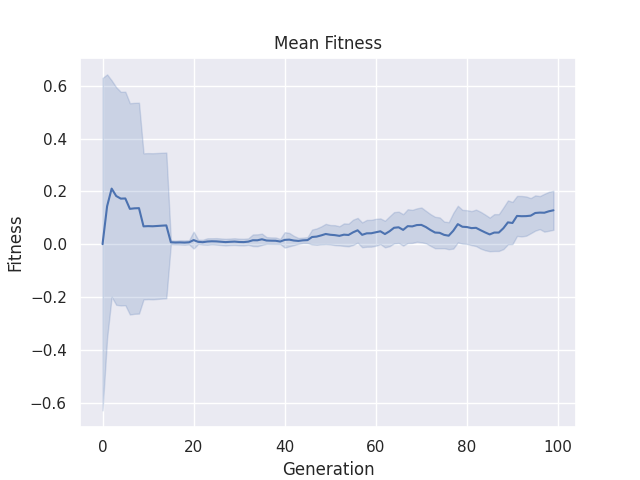
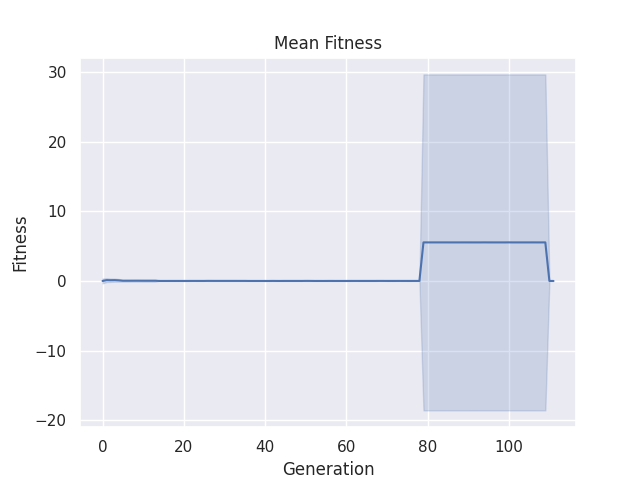
changed z_depth to actual average height

diff --git a/pyrevolve/evolution/population/population.py b/pyrevolve/evolution/population/population.py
@@ -338,13 +338,13 @@ class Population:
             line_fitness_range = (max(self.individuals, key= lambda x: x.phenotype._behavioural_measurements.line_fitness).phenotype._behavioural_measurements.line_fitness
                                 - min(self.individuals, key= lambda x: x.phenotype._behavioural_measurements.line_fitness).phenotype._behavioural_measurements.line_fitness)
        
-            mean_height = np.sum([individual.phenotype._morphological_measurements.z_depth for individual in self.individuals])/len(self.individuals)
-            height_range = (max(self.individuals, key= lambda x: x.phenotype._morphological_measurements.z_depth).phenotype._morphological_measurements.z_depth
-                            - min(self.individuals, key= lambda x: x.phenotype._morphological_measurements.z_depth).phenotype._morphological_measurements.z_depth)
+            mean_height = np.sum([individual.phenotype._behavioural_measurements.avg_z for individual in self.individuals])/len(self.individuals)
+            height_range = (max(self.individuals, key= lambda x: x.phenotype._behavioural_measurements.avg_z).phenotype._behavioural_measurements.avg_z
+                            - min(self.individuals, key= lambda x: x.phenotype._behavioural_measurements.avg_z).phenotype._behavioural_measurements.avg_z)
             
             for individual in self.individuals:
                 individual.fitness = (scale_fitness(individual.phenotype._behavioural_measurements.line_fitness, mean_line_fitness, line_fitness_range)
-                                     + scale_fitness(individual.phenotype._morphological_measurements.z_depth, mean_height, height_range))
+                                     + scale_fitness(individual.phenotype._behavioural_measurements.avg_z, mean_height, height_range))
         
         print([individual.fitness for individual in self.individuals])
         print("/n/n/n/n/n")

diff --git a/experiments/EC_students/manager_population_cppn.py b/experiments/EC_students/manager_population_cppn.py
@@ -41,12 +41,14 @@ from pyrevolve.genotype.cppnneat.brain.develop import develop as cppnneat_brain_
 from pyrevolve.genotype.cppnneat.brain.genotype import Genotype as CppnneatBrainGenotype
 from pyrevolve.genotype.cppnneat.brain.mutation import mutate as cppnneat_brain_mutate
 from pyrevolve.genotype.cppnneat.config import get_default_multineat_params
+from pyrevolve.genotype.plasticoding import PlasticodingConfig
 from pyrevolve.util.supervisor.analyzer_queue import AnalyzerQueue
 from pyrevolve.util.supervisor.simulator_queue import SimulatorQueue
 
 
 @dataclass
 class GenotypeConstructorConfig:
+    body_plasticoding_config: PlasticodingConfig
     body_n_start_mutations: int
     brain_n_start_mutations: int
     bodybrain_composition_config: BodybrainCompositionConfig
@@ -85,7 +87,7 @@ async def run():
     """
 
     # experiment params #
-    num_generations = 100
+    num_generations = 500
     
     """
     population_size = 10
@@ -99,6 +101,7 @@ async def run():
 
     body_n_start_mutations: int = 10
     brain_n_start_mutations: int = 10
+    max_structural_modules=100
 
     # body multineat settings
     multineat_params_body = get_default_multineat_params()
@@ -156,6 +159,10 @@ async def run():
 
     # genotype constructor config. Used by `create_random_genotype` in this file.
     genotype_constructor_config = GenotypeConstructorConfig(
+        PlasticodingConfig(
+            max_structural_modules=max_structural_modules,
+            #plastic=False,
+        ),
         body_n_start_mutations,
         brain_n_start_mutations,
         bodybrain_composition_config,

diff --git a/pyrevolve/tol/manage/measures.py b/pyrevolve/tol/manage/measures.py
@@ -27,6 +27,7 @@ class BehaviouralMeasurements:
             self.head_balance = head_balance(robot_manager)
             self.contacts = contacts(robot_manager, robot)
             self.line_fitness = follow_line(robot_manager, robot)
+            self.avg_z = calculate_average_z(robot_manager)
 
         else:
             self.velocity = None
@@ -36,6 +37,7 @@ class BehaviouralMeasurements:
             self.head_balance = None
             self.contacts = None
             self.line_fitness = None
+            self.avg_z = None
 
     def items(self):
         return {
@@ -45,7 +47,8 @@ class BehaviouralMeasurements:
             'displacement_velocity_hill': self.displacement_velocity_hill,
             'head_balance': self.head_balance,
             'contacts': self.contacts,
-            "line_fitness": self.line_fitness
+            "line_fitness": self.line_fitness,
+            "avg_z": self.avg_z
         }.items()
 
 
@@ -141,6 +144,10 @@ def contacts(robot_manager: RvRobotManager, robot: RevolveBot):
         robot._morphological_measurements = robot.measure_body()
     avg_contacts = avg_contacts / robot._morphological_measurements.absolute_size
     return avg_contacts
+
+
+def calculate_average_z(robot_manager: RvRobotManager):
+    return sum([vector.z for vector in robot_manager._positions])/len(robot_manager._positions)
 
 
 def logs_position_orientation(robot_manager: RvRobotManager, o, evaluation_time, robotid, path):

diff --git a/experiments/EC_students/visualize-brent.py b/experiments/EC_students/visualize-brent.py
@@ -116,13 +116,17 @@ def plot_generational_graph(generations, mean, std, label, figure_dir):
 if __name__== "__main__":
 
     # Name of the experiment folder
-    experiment_name = "1"
+    experiment_name = "scaled_no_la2"
 
     # Returns all robots and their associated data in a df
     robot_df = datafolder_to_df(experiment_name)
     
     # To check out the data
     robot_df.to_csv('df_test.csv')
+
+    # Convert to height in blocks
+    block_height = 0.035
+    robot_df["avg_z_in_blocks"] = robot_df["avg_z"] / block_height
 
     # Save figures as png to this dir
     figure_dir = f"figures/{experiment_name}/"
@@ -141,7 +145,14 @@ if __name__== "__main__":
     generations, mean, std = get_mean_and_std_generation_wise(x, y)
     plot_generational_graph(generations, mean, std, "Height", figure_dir)
 
+    x, y = get_data_per_generation(robot_df, "avg_z")
+    generations, mean, std = get_mean_and_std_generation_wise(x, y)
+    plot_generational_graph(generations, mean, std, "avg_z", figure_dir)
 
+    x, y = get_data_per_generation(robot_df, "avg_z_in_blocks")
+    generations, mean, std = get_mean_and_std_generation_wise(x, y)
+    plot_generational_graph(generations, mean, std, "Average height (blocks)", figure_dir)
+	
 
     
 

diff --git a/watch_robot.py b/watch_robot.py
@@ -29,8 +29,6 @@ async def run():
     # Parse command line / file input arguments
     settings = parser.parse_args()
 
-    print(settings.port_start)
-
     # Start Simulator
     if settings.simulator_cmd != "debug":
         simulator_supervisor = DynamicSimSupervisor(
@@ -53,7 +51,7 @@ async def run():
     # initialization finished
 
     # load robot file
-    path = "phenotype_1.yaml"
+    path = "test.yaml"
     robot = RevolveBot(_id=settings.test_robot)
     robot.load_file(path, conf_type="yaml")
     robot.update_substrate()

diff --git a/pyrevolve/experiment_management.py b/pyrevolve/experiment_management.py
@@ -474,5 +474,8 @@ class ExperimentManagement:
                         elif line_0 == 'line_fitness':
                             phenotype._behavioural_measurements.line_fitness = \
                                 float(line_1) if line_1 != 'None\n' else None
+                        elif line_0 == 'avg_z':
+                            phenotype._behavioural_measurements.avg_z = \
+                                float(line_1) if line_1 != 'None\n' else None
 
         return individual

diff --git a/pyrevolve/evolution/fitness.py b/pyrevolve/evolution/fitness.py
@@ -283,7 +283,7 @@ def follow_line(robot_manager: RobotManager, robot: RevolveBot) -> float:
 
 def robot_height(robot_manager: RobotManager, robot: RevolveBot) -> float:
     """ Fitness is defined as the height in blocks of the morphology"""
-    z_depth = robot._morphological_measurements.z_depth
+    z_depth = robot._behavioural_measurements.avg_z
 
     return z_depth
 

diff --git a/pyrevolve/genotype/plasticoding/__init__.py b/pyrevolve/genotype/plasticoding/__init__.py
@@ -17,7 +17,7 @@ class PlasticodingConfig:
                  i_iterations=3,
                  max_structural_modules=100,
                  robot_id=0,
-                 allow_linear_joint=True,
+                 allow_linear_joint=False,
                  allow_vertical_brick=True,
                  use_movement_commands=True,
                  use_rotation_commands=True,
